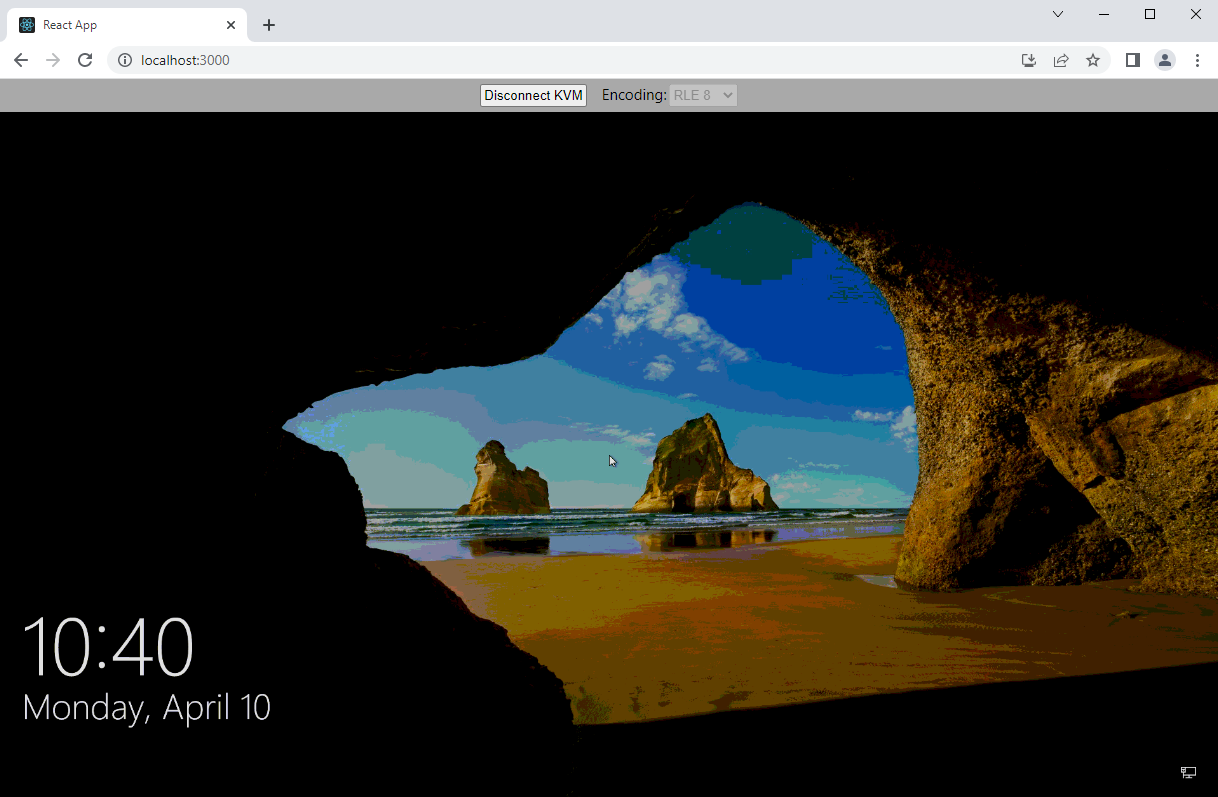
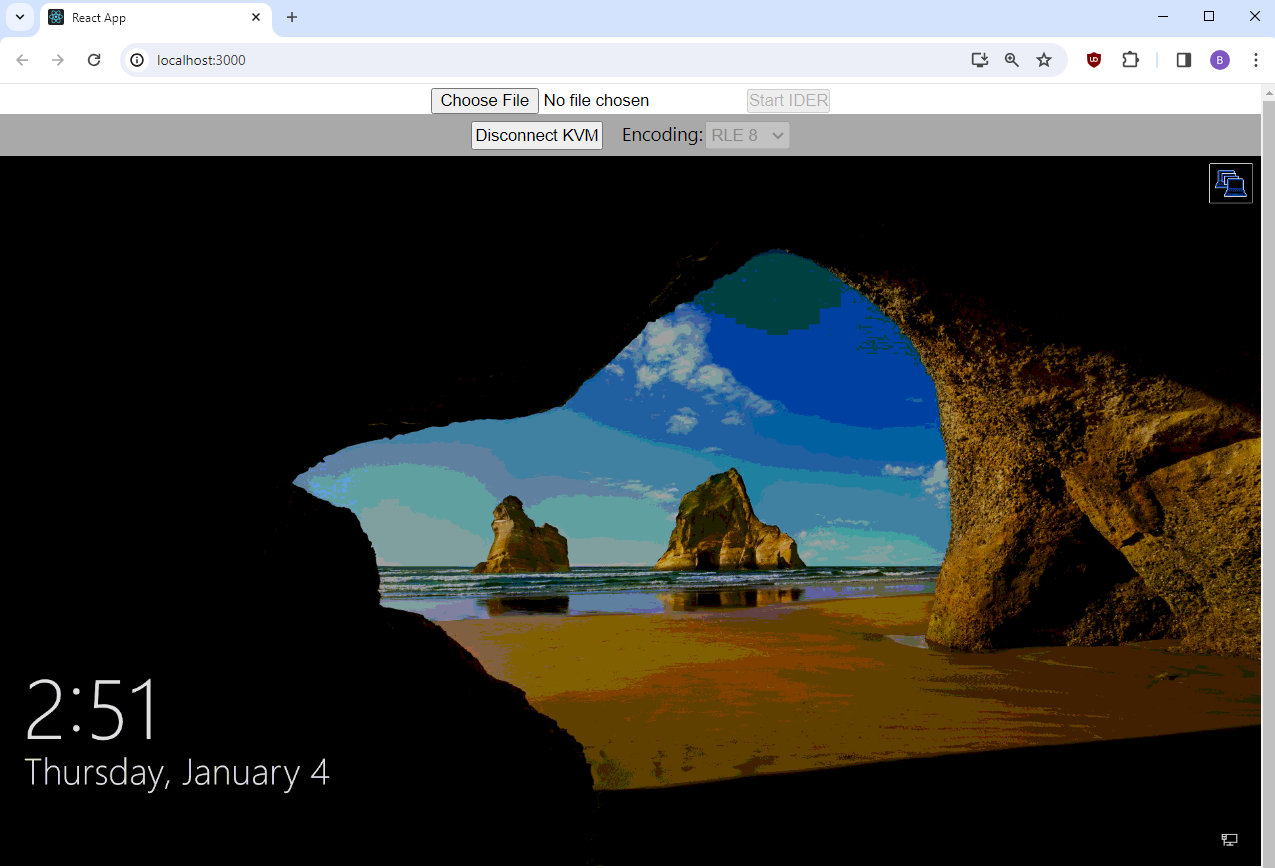
docs: add ider documentation

Changed region(s): [[0.0, 0.0, 1.0, 1.0], [0.0, 0.7528, 0.2808, 0.9034], [0.5616, 0.8432, 0.624, 0.9034]]

diff --git a/docs/Tutorials/uitoolkitReact.md b/docs/Tutorials/uitoolkitReact.md
@@ -1,9 +1,14 @@
 --8<-- "References/abbreviations.md"
 # Add MPS UI Toolkit Controls to a WebUI
 
-The UI Toolkit allows developers to add manageability features to a console with prebuilt React components. The code snippets simplify the task of adding complex manageability UI controls, such as the Keyboard, Video, Mouse (KVM). A sample web application, based on React.js, is provided for test and development. 
+The UI Toolkit allows developers to add manageability features to a console with prebuilt React components. The code snippets simplify the task of adding complex manageability UI controls, such as Keyboard, Video, Mouse (KVM). A sample web application, based on React.js, is provided for test and development. 
 
 The tutorial outlines how to add various controls to the sample React web application provided. Developers can use the sample code below as a springboard for developing their own consoles.
+
+??? note "Note - Other Framework Technologies"
+    This guide shows a basic example implementation using React. Other frameworks can be used using the UI-Toolkit like Angular and Vue.js.
+
+    For an example implementation of Angular, see our [Sample Web UI codebase](https://github.com/open-amt-cloud-toolkit/sample-web-ui/).
 
 ## What You'll Need
 
@@ -12,7 +17,7 @@ The tutorial outlines how to add various controls to the sample React web applic
 **Configure a network that includes:**
 
 - A development system running Windows® 10 or Ubuntu* 18.04 or newer
-- At least one Intel vPro® Platform to manage
+- An Activated and Configured Intel® vPro device as the managed device
 
 ### Software
 
@@ -20,8 +25,8 @@ The tutorial outlines how to add various controls to the sample React web applic
 - [RPS](https://github.com/open-amt-cloud-toolkit/RCS), the Remote Provisioning Server
 - Intel&reg; vPro device, configured and connected to MPS
 
-!!! Note
-    For instructions to setup the MPS and RPS servers to connect a managed device, see the [Get Started Guide](../GetStarted/prerequisites.md)
+    !!! Note
+        For instructions to setup the MPS and RPS servers to connect a managed device, see the [Get Started Guide](../GetStarted/prerequisites.md)
 
 - The **development system** requires the following software:
     - [git](https://git-scm.com/)
@@ -42,31 +47,31 @@ Follow the steps in these sections sequentially:
 
 ## Create a New React App
 
-The React app can be created in any preferred development directory. The MPS can continue to run while creating and running the app.
+The React app can be created in any preferred development directory.
 
 1. In a Terminal or Command Prompt, go to your preferred development directory. 
 
-2. Run the following commands to create sample React app named `my-app`.
+2. Create a sample React app named `my-app`.
 
     ``` bash
     npx create-react-app my-app
     ```
 
-3. Change to the my-app directory:
+3. Change to the `my-app` directory:
 
     ``` bash
     cd my-app
     ```
 
-## Add UI Toolkit
+## Install UI Toolkit
 
-1. Run the following command to add the UI Toolkit and install the required dependencies:
+1. Install the UI Toolkit and required dependencies.
 
     ``` bash
     npm install @open-amt-cloud-toolkit/ui-toolkit-react@{{ repoVersion.ui_toolkit_react }}
     ```
 
-2. Run the following commands to start the web UI locally:
+2. Start the React web UI locally.
 
     ``` bash
     npm start
@@ -82,15 +87,16 @@ The React app can be created in any preferred development directory. The MPS can
 
     !!! Note "Note - Using Chromium Browser and Refreshing"
         By default, React launches in your machine's default browser. However for best experience, navigate to the page using a Chromium based web browser.
+
         When you make changes, you do not need to stop the application and restart. It will update and refresh automatically as you make code changes.
 
 
 ## Add a Sample Control
 The following sections outline how to add controls.  Refresh the web browser after adding a control if it does not update automatically after a few seconds.
 
-### Add Keyboard, Video, Mouse (KVM) Redirection 
+### Add Keyboard, Video, Mouse (KVM) Redirection and IDE-Redirection (IDER)
 
-The code snippet below adds KVM control to the React application. 
+The code snippet below adds both the KVM and IDER controls to the React application. 
 
 1. Open `./my-app/src/App.js` in a text editor or IDE of choice, such as Visual Studio Code or Notepad.
 
@@ -102,28 +108,38 @@ The code snippet below adds KVM control to the React application.
     | :----------- | :-------------- |
     | `deviceId` | **Replace the example deviceId** value with the GUID of the Intel® AMT device.  See [How to Find GUIDs in Intel® AMT](../Reference/guids.md). |
     | `mpsServer` | **Replace the localhost** with the IP Address or FQDN of your MPS Server. <br><br> **When using Kong**, `/mps/ws/relay` must be appended to the IP or FQDN. |
-    | `authToken` | **Provide valid JWT.** Redirection requires a redirection-specific authentication token. [See the `/authorize/redirection/{guid}` GET API in the Auth section.](../APIs/indexMPS.md){target=_blank} <br><br> For a general example on how to make an API call and how to get a auth token from `/authorize` to pass to `/authorize/redirection/{guid}`, see [Generating a JWT by using an Authorize API call](./apiTutorial.md#generate-a-jwt){target=_blank}. |
+    | `authToken` | **Provide a redirection-specific JWT authentication token. This is different from the `/authorize` login token.** [See the `/authorize/redirection/{guid}` GET API in the Auth section.](../APIs/indexMPS.md){target=_blank} <br><br> For a general example on how to make an API call and how to get an auth token from `/authorize` to pass to `/authorize/redirection/{guid}`, see [Generating a JWT by using an Authorize API call](./apiTutorial.md#generate-a-jwt){target=_blank}. |
 
 
-    ``` javascript hl_lines="8 9 11"
-    import React from "react";
-    import "./App.css";
+    ``` javascript hl_lines="7 8 9"
+    import React from "react"
+    import "./App.css"
     import { KVM } from "@open-amt-cloud-toolkit/ui-toolkit-react/reactjs/src/kvm.bundle";
+    import { AttachDiskImage } from "@open-amt-cloud-toolkit/ui-toolkit-react/reactjs/src/ider.bundle";
 
     function App() {
-        return (
-            <div className="App">
-                <KVM deviceId="038d0240-045c-05f4-7706-980700080009" //Replace with AMT Device GUID
-                mpsServer="https://localhost/mps/ws/relay" //Replace 'localhost' with MPS Server IP Address or FQDN
-                mouseDebounceTime="200"
-                authToken="" // Replace with a valid JWT token from 'Authorize Redirection' GET API Method
-                canvasHeight="100%"
-                canvasWidth="100%"></KVM>
-            </div>
-        );
+      const deviceGUID = '4c4c4544-005a-3510-8047-b4c04f564433' //Replace with AMT Device GUID
+      const mpsAddress = 'https://localhost/mps/ws/relay' //Replace 'localhost' with MPS Server IP Address or FQDN
+      const auth = '' // Replace with a valid JWT token from 'Authorize Redirection' GET API Method
+      return (
+        <div className="App">
+          <React.Fragment>
+            <AttachDiskImage deviceId={deviceGUID}
+              mpsServer={mpsAddress}
+              authToken={auth}
+            />
+            <KVM autoConnect={false}
+              deviceId={deviceGUID}
+              mpsServer={mpsAddress}
+              authToken={auth}
+              mouseDebounceTime={200}
+              canvasHeight={'100%'} canvasWidth={'100%'} />
+          </React.Fragment>
+        </div>
+      );
     }
 
-    export default App;
+    export default App
     ```
 
 
@@ -139,16 +155,23 @@ The code snippet below adds KVM control to the React application.
         <figcaption>Figure 3: Successful KVM Connection</figcaption>
         </figure>
 
+## Troubleshooting
 
-You will see the errors in the following scenarios:
+### Page will not load
 
-- If your browser is IE/Edge, there might be compatibility issues.
-- Compilation errors if the ui-toolkit was not downloaded and installed to your react app.
-- MPS/RPS server not running, appropriate controls will fail to work.
-- MPS server running and device not connected.
-- Incorrect or invalid JWT for authToken, see instructions on [Generating a JWT by using an Authorize API call](./apiTutorial.md#generate-a-jwt){target=_blank}.
+- Insure using a Chromium-based browser (Chrome, Microsoft Edge, Firefox) 
+- Compilation errors, verify that the ui-toolkit-react npm package was downloaded and installed to the `my-app` directory, not another directory.
+
+
+### `Connect KVM` Button does not Work
+
+- Is MPS running?
+- Is the AMT device connected to MPS?
+- Was the self-signed certificate accepted? Navigate to the Sample Web UI in a new tab in the same browser and accept the self-signed certificate. Then, return to the React tab and refresh.
+- Verify the redirection JWT token is still valid and not expired. Update if needed. Default expiration time is 5 minutes.
+- Incorrect or invalid JWT for authToken, see [MPS API Documentation for `/authorize/redirection` API](../APIs/indexMPS.md){target=_blank}. **This is a different token and API call from the login token `/authorize` API.**
     
-    !!! example "Example authToken Format from API Call"
+    !!! example "Example authToken Format from `/authorize/redirection` API Call"
 
         ```json
         {

diff --git a/docs/Tutorials/ideRedirection.md b/docs/Tutorials/ideRedirection.md
@@ -1,0 +1,88 @@
+--8<-- "References/abbreviations.md"
+
+IDE-Redirection (IDER) allows a trusted administrator to remotely mount disk images on an Intel AMT computer over the network. The device can then reboot using this image to perform computer recovery, OS re-installation, virus scanning and more.
+
+## What You'll Need
+
+**Hardware**
+
+A minimum network configuration must include:
+
+-  A Development system with Windows® 10 or Ubuntu 18.04 or newer
+-  An Activated and Configured Intel® vPro device as the managed device
+
+**Software on the Development System** 
+
+- MPS and Sample Web UI
+- An `.iso` File ([netboot.xyz](https://netboot.xyz/downloads/#x86_64-combined-legacy-and-uefi-ipxe-bootloaders) is used in this guide as a demonstration. Custom images can be used.)
+
+    !!! Note
+        For instructions to setup the MPS and RPS servers to connect a managed device, see the [Get Started Guide](../GetStarted/prerequisites.md)
+  
+## What You'll Do
+The following sections describe how to:
+
+- Start an IDER session
+- Remote Mount an ISO
+- Reimage the AMT Device
+
+
+## Start an IDER Session
+
+1. In the Sample Web UI, navigate to the Devices page.
+
+2. Select the device to reimage.
+
+3. Start a KVM session.
+
+4. Click **Attach Disk Image (.iso)** button in the upper-right corner.
+
+    <figure class="figure-image">
+    <img src="..\..\assets\images\SampleUI_StartIDER.png" alt="Figure 1: Start IDER Session">
+    <figcaption>Figure 1: Start IDER Session</figcaption>
+    </figure>
+
+## Remote Mount an ISO
+
+1. Select the `.iso` file to mount to the AMT device.
+
+    <figure class="figure-image">
+    <img src="..\..\assets\images\SampleUI_IDER_ChooseFile.png" alt="Figure 2: Choose .iso File">
+    <figcaption>Figure 2: Choose .iso File</figcaption>
+    </figure>
+
+2. After uploading the `.iso` file, MPS will start to transfer and mount the image to the AMT device. 
+
+3. To verify the image was successfully mounted, view the available mounted drives on the AMT device. When the mount is listed, it is ready.
+
+    <figure class="figure-image">
+    <img src="..\..\assets\images\SampleUI_IDER_Drives.png" alt="Figure 3: View Mounted Drives">
+    <figcaption>Figure 3: View Mounted Drives</figcaption>
+    </figure>
+
+## Reimage the Device
+
+1. Reset the device to IDE-R (CD-ROM).
+
+    <figure class="figure-image">
+    <img src="..\..\assets\images\SampleUI_IDER_Reset.png" alt="Figure 4: Reset to IDE-R">
+    <figcaption>Figure 4: Reset to IDE-R</figcaption>
+    </figure>
+
+2. After the device has finished POST, a menu or process will begin. This will vary based on the `.iso` file used. In this example, *netboot.xyz* is used and its menu can be seen.
+
+    !!! success
+        <figure class="figure-image">
+        <img src="..\..\assets\images\SampleUI_IDER_netboot.png" alt="Figure 5: IDER Session">
+        <figcaption>Figure 5: IDER Session</figcaption>
+        </figure>
+
+<br>
+
+## Learn How to Integrate into a Custom UI
+
+Explore how to add redirection features, such as Keyboard, Video, and Mouse (KVM) and IDE-Redirect (IDER), with prebuilt React components.
+
+[Get Started with the UI Toolkit](../Tutorials/uitoolkitReact.md){: .md-button .md-button--primary }
+
+<br>

diff --git a/docs/GetStarted/manageDevice.md b/docs/GetStarted/manageDevice.md
@@ -11,12 +11,14 @@
 	
 2. Click the Devices tab from the menu on the left.
      <figure class="figure-image">
-     <img src="..\..\assets\images\/MPS_ConnectedDevice.png" alt="Figure 1: Devices tab">
+     <img src="..\..\assets\images\MPS_ConnectedDevice.png" alt="Figure 1: Devices tab">
      <figcaption>Figure 1: Devices tab</figcaption>
      </figure>
 
     !!! troubleshooting
         If the activated device is not listed or if it is listed as unconnected, try restarting the AMT device. After successfully restarting the device, refresh the Sample Web UI to see if the *Status* changes to *connected*.
+
+        [Additional troubleshooting steps.](../Reference/troubleshooting.md)
 
 3. Click on your connected device.
 
@@ -32,7 +34,7 @@
 
 ### User Consent
 
-  If activated in Client Control Mode(CCM), the keyboard, video, mouse (KVM) and serial-over-LAN (SOL) features require entering a user consent code, which will be displayed on the managed device.
+  If activated in Client Control Mode(CCM), the keyboard, video, mouse (KVM), serial-over-LAN (SOL), and IDE-Redirect (IDER) features require entering a user consent code, which will be displayed on the managed device.
         
   To use KVM/SOL without user consent, follow the [ACM Activation Path](createProfileACM.md) for how to configure a device into Admin Control Mode.
 
@@ -55,7 +57,7 @@ Learn how to send commands to AMT devices with the curl-based REST API tutorial.
 [Get Started with REST API Calls](../Tutorials/apiTutorial.md){: .md-button .md-button--primary }
 
 ### UI Toolkit
-Explore the Open AMT Cloud Toolkit reference implementation console by adding manageability features with prebuilt React components, such as Keyboard, Video, and Mouse (KVM).
+Explore how to add redirection features, such as Keyboard, Video, and Mouse (KVM) and IDE-Redirect (IDER), with prebuilt React components.
 
 [Get Started with the UI Toolkit](../Tutorials/uitoolkitReact.md){: .md-button .md-button--primary }
 

diff --git a/docs/GetStarted/createProfileACM.md b/docs/GetStarted/createProfileACM.md
@@ -98,7 +98,7 @@ A Profile provides configuration information to the AMT Firmware during the acti
 
 10. This express setup assumes the managed device (i.e. AMT device) is on a wired connection for quickest setup.  To learn more about a Wireless Setup, see the [Wireless Activation Tutorial](../Tutorials/createWiFiConfig.md).
 
-11. Select **CIRA (Cloud)** for Connection Configuration.
+11. Select **CIRA (Cloud)** for **Connection Configuration**.
 
 12. Select the name of the **CIRA Configuration** you created previously from the drop-down menu.
 

diff --git a/docs/GetStarted/createProfileCCM.md b/docs/GetStarted/createProfileCCM.md
@@ -51,7 +51,7 @@ Profiles provide configuration information to the firmware on platforms featurin
 
 9. This express setup assumes the managed device (i.e. AMT device) is on a wired connection for quickest setup.  To learn more about a Wireless Setup, see the [Wireless Activation Tutorial](../Tutorials/createWiFiConfig.md).
 
-10. Select **CIRA (Cloud)** for Connection Configuration.
+10. Select **CIRA (Cloud)** for **Connection Configuration**.
 
 11. Select the name of the **CIRA Configuration** you created previously from the drop-down menu.
 
